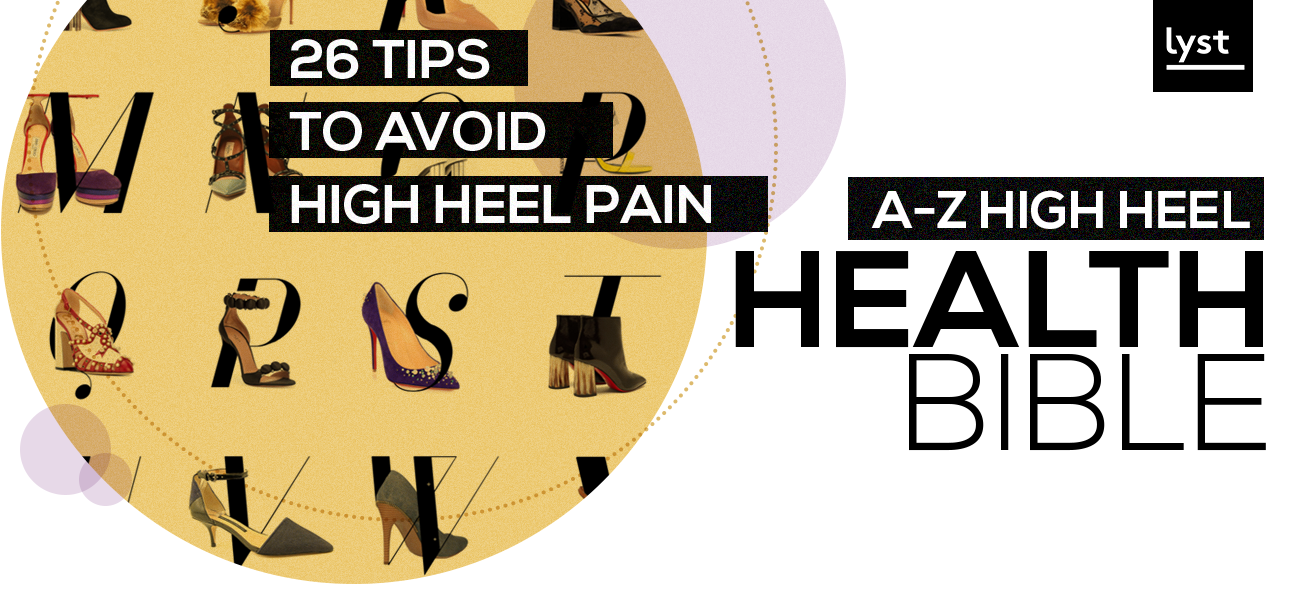
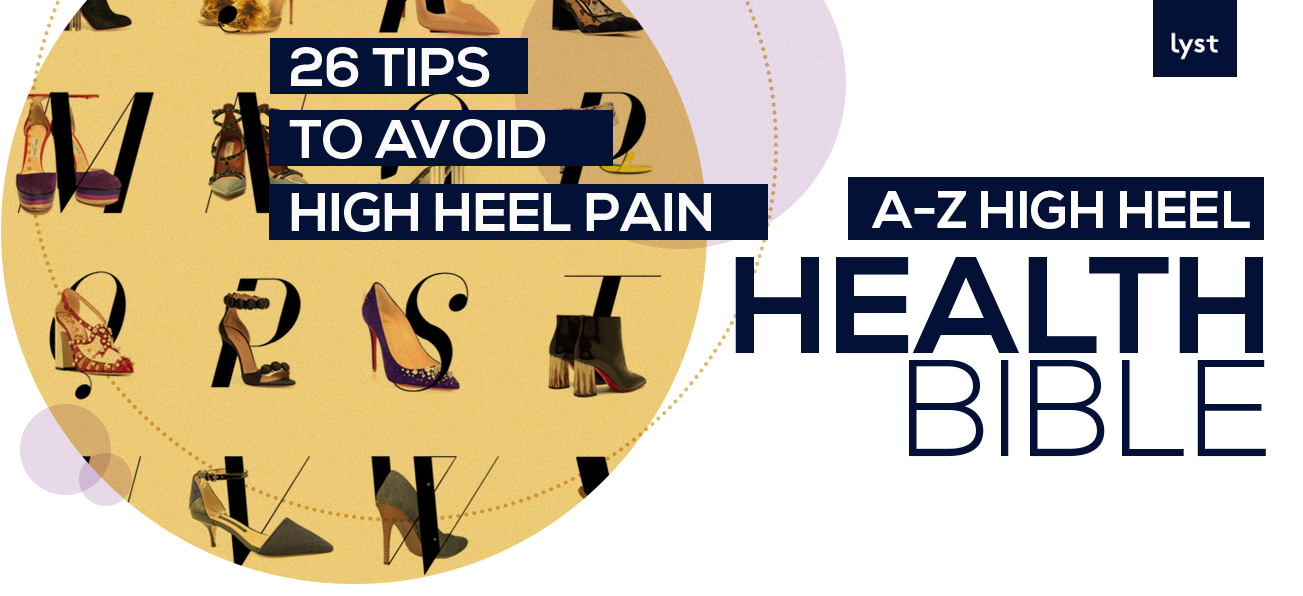
Header update and colour update to navy blue

Changed region(s): [[0.1842, 0.0302, 0.9823, 0.7852], [0.8596, 0.0, 0.9823, 0.1812]]

diff --git a/css/main.css b/css/main.css
@@ -154,6 +154,7 @@ body {
   text-transform: uppercase;
   letter-spacing: 3px;
   font-family: 'Brown-Bold', sans-serif;
+  color: #021135;
 }
 
 
@@ -167,8 +168,8 @@ top: -101px;
 
 #big-outline{
     background-color: rgba(255, 255, 255, 0.1);
-    border-bottom: 2px solid #fff;
-    border-top: 2px solid #fff;
+    border-bottom: 2px solid #021135;
+    border-top: 2px solid #021135;
 }
 
 #big-outline a{
